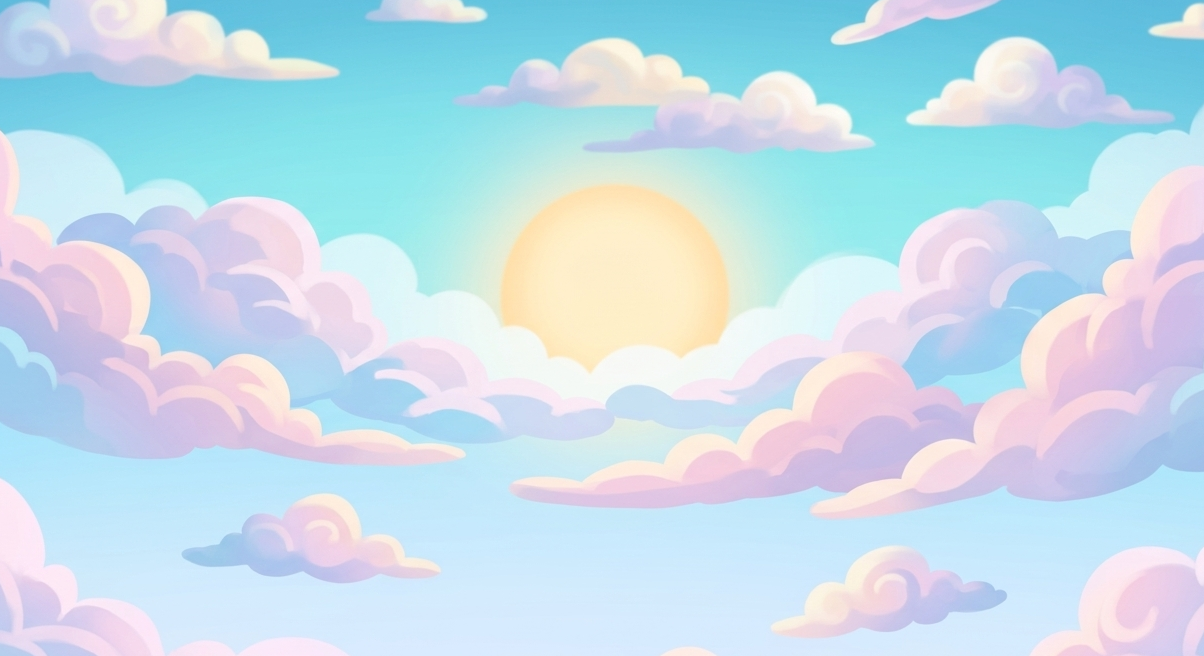
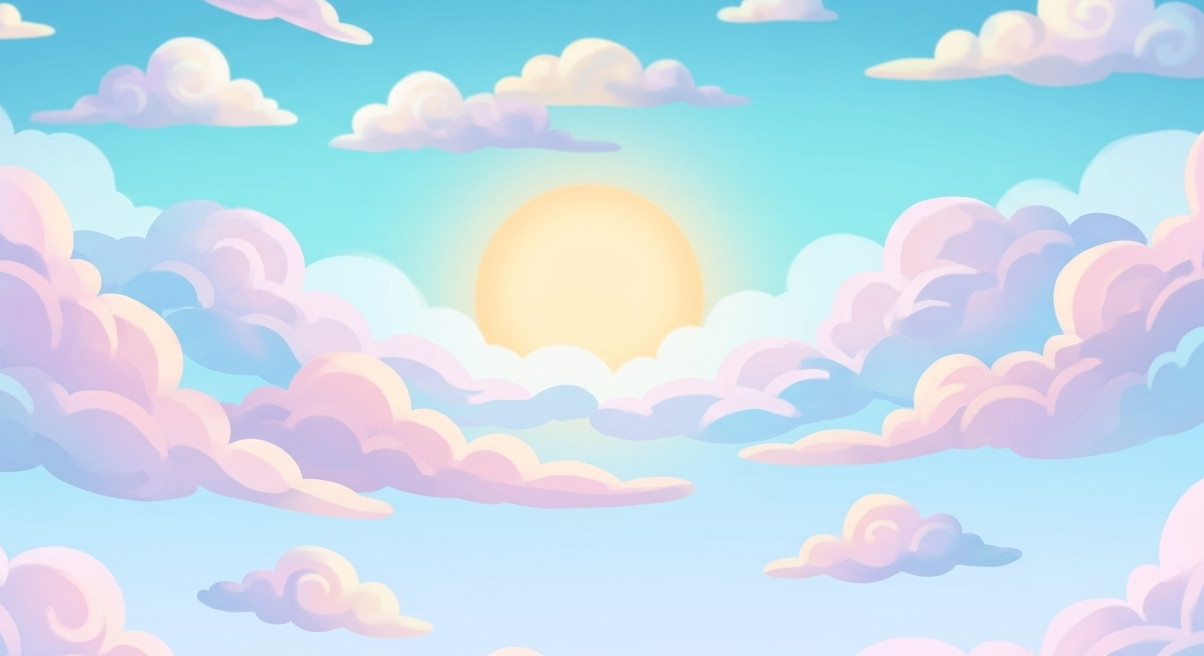
feat: add alternating backgrounds, rainbow hitboxes, layout fixes, and mobile screen tilt overlay

diff --git a/script.js b/script.js
@@ -13,38 +13,36 @@ function resizeCanvas() {
     }
 }
 window.addEventListener('resize', resizeCanvas);
-resizeCanvas();
 
 // ─── Assets ───────────────────────────────────────────────
 const assets = {
     croc: new Image(),
     cloud: new Image(),
-    bg:  new Image(),
-    bg2: new Image(),
-    bg3: new Image(),
-    bg4: new Image(),
-    bg5: new Image(),
-    bg6: new Image()
+    rainbow: new Image(),
+    bgs: [],
+    mbgs: []
 };
 
-const BG_LIST = ['bg','bg2','bg3','bg4','bg5','bg6'];
-let currentBgIdx = 0; // index ke BG_LIST
+const BG_PREFIX = ['background', 'background2', 'background3', 'background4', 'background5', 'background6'];
+const MIRROR_PREFIX = ['mirrorbackground', 'mirrorbackground2', 'mirrorbackground3', 'mirrorbackground4', 'mirrorbackground5', 'mirrorbackground6'];
+
+for(let i=0; i<6; i++) {
+    assets.bgs.push(new Image());
+    assets.mbgs.push(new Image());
+}
+
+let currentBgIdx = 0; // index ke BG array
 
 assets.croc.src  = 'img/buaya.png';
 assets.cloud.src = 'img/awan.png';
-assets.bg.src    = 'img/background.png';
-assets.bg2.src   = 'img/background2.png';
-assets.bg3.src   = 'img/background3.png';
-assets.bg4.src   = 'img/background4.png';
-assets.bg5.src   = 'img/background5.png';
-assets.bg6.src   = 'img/background6.png';
+assets.rainbow.src = 'img/pelangi.png';
 
 let assetsLoaded = 0;
-const totalAssets = 8;
+const totalAssets = 3 + 12; // croc, cloud, rainbow + 6 bgs + 6 mbgs
 
 const checkLoad = () => {
     assetsLoaded++;
-    if (assetsLoaded === totalAssets && gameState === 'LOADING') {
+    if (assetsLoaded >= totalAssets && gameState === 'LOADING') {
         gameState = 'START';
     }
 };
@@ -52,12 +50,16 @@ const handleLoadError = () => { console.error("Asset load failed"); checkLoad();
 
 assets.croc.onload  = checkLoad; assets.croc.onerror  = handleLoadError;
 assets.cloud.onload = checkLoad; assets.cloud.onerror = handleLoadError;
-assets.bg.onload    = checkLoad; assets.bg.onerror    = handleLoadError;
-assets.bg2.onload   = checkLoad; assets.bg2.onerror   = handleLoadError;
-assets.bg3.onload   = checkLoad; assets.bg3.onerror   = handleLoadError;
-assets.bg4.onload   = checkLoad; assets.bg4.onerror   = handleLoadError;
-assets.bg5.onload   = checkLoad; assets.bg5.onerror   = handleLoadError;
-assets.bg6.onload   = checkLoad; assets.bg6.onerror   = handleLoadError;
+assets.rainbow.onload = checkLoad; assets.rainbow.onerror = handleLoadError;
+
+for(let i=0; i<6; i++) {
+    assets.bgs[i].onload = checkLoad; assets.bgs[i].onerror = handleLoadError;
+    assets.bgs[i].src = `img/${BG_PREFIX[i]}.png`;
+    
+    assets.mbgs[i].onload = checkLoad; assets.mbgs[i].onerror = handleLoadError;
+    assets.mbgs[i].src = `img/${MIRROR_PREFIX[i]}.png`;
+}
+
 
 // ─── Music & Mute ─────────────────────────────────────────
 const bgMusic = new Audio('music/backsound.mp3');
@@ -157,11 +159,28 @@ function spawnObstacle() {
     let cloudWidth  = (120 + Math.random() * 60) * Math.max(scale, 0.6);
     let cloudHeight = cloudWidth * 0.6;
     let yPos        = Math.random() * (canvas.height - cloudHeight);
-    obstacles.push({ x: canvas.width, y: yPos, width: cloudWidth, height: cloudHeight });
+    let hasRainbow  = Math.random() < 0.2; // 20% chance
+    obstacles.push({ x: canvas.width, y: yPos, width: cloudWidth, height: cloudHeight, hasRainbow: hasRainbow });
 }
 
 function drawObstacles() {
     for (let obs of obstacles) {
+        // Draw rainbow menyatu dengan awan jika ada (di bawah awan)
+        if (obs.hasRainbow && assets.rainbow.complete && assets.rainbow.naturalWidth !== 0 && assets.cloud.complete) {
+            // Ukuran pelangi disesuaikan
+            let rWidth = obs.width * 1.1; 
+            let rHeight = obs.height * 1.1;
+            let rX = obs.x - (rWidth - obs.width) / 2;
+            let rY = obs.y - (rHeight - obs.height) / 1.1; // sedikit di atas awan (awan utama di tengah)
+            ctx.drawImage(assets.rainbow, rX, rY, rWidth, rHeight);
+
+            // Awan di ujung kiri pelangi
+            ctx.drawImage(assets.cloud, rX - obs.width*0.3, rY + rHeight*0.6, obs.width*0.8, obs.height*0.8);
+            // Awan di ujung kanan pelangi
+            ctx.drawImage(assets.cloud, rX + rWidth - obs.width*0.5, rY + rHeight*0.6, obs.width*0.8, obs.height*0.8);
+        }
+
+        // Gambar awan utama di tengah (selalu ada)
         if (assets.cloud.complete && assets.cloud.naturalWidth !== 0) {
             ctx.drawImage(assets.cloud, obs.x, obs.y, obs.width, obs.height);
         } else {
@@ -184,14 +203,55 @@ function updateObstacles() {
         let obs = obstacles[i];
         obs.x  -= SCROLL_SPEED;
 
-        // Hitbox padding (lebih longgar)
-        const px = 38, py = 38;
-        if (
+        // Hitbox padding awan (lebih longgar tapi harus proporsional untuk responsif HP)
+        const px = croc.width * 0.22;
+        const py = croc.height * 0.28;
+        
+        // Cek tabrakan awan utama
+        let hitCloud = (
             croc.x + px         < obs.x + obs.width  - px &&
             croc.x + croc.width - px > obs.x + px          &&
             croc.y + py         < obs.y + obs.height - py  &&
             croc.y + croc.height - py > obs.y + py
-        ) {
+        );
+
+        let hitRainbow = false;
+        if (obs.hasRainbow) {
+            // Hitbox pelangi
+            let rWidth = obs.width * 1.1; 
+            let rHeight = obs.height * 1.1;
+            let rX = obs.x - (rWidth - obs.width) / 2;
+            let rY = obs.y - (rHeight - obs.height) / 1.1;
+
+            hitRainbow = (
+                croc.x + px         < rX + rWidth  - px &&
+                croc.x + croc.width - px > rX + px          &&
+                croc.y + py         < rY + rHeight - py  &&
+                croc.y + croc.height - py > rY + py
+            );
+
+            // Hitbox 2 awan kecil di ujung
+            let lhX = rX - obs.width*0.3; let lhY = rY + rHeight*0.6; let lhW = obs.width*0.8; let lhH = obs.height*0.8;
+            let rhX = rX + rWidth - obs.width*0.5; let rhY = rY + rHeight*0.6; let rhW = obs.width*0.8; let rhH = obs.height*0.8;
+
+            let hitLeftCloud = (
+                croc.x + px         < lhX + lhW  - px &&
+                croc.x + croc.width - px > lhX + px          &&
+                croc.y + py         < lhY + lhH - py  &&
+                croc.y + croc.height - py > lhY + py
+            );
+
+            let hitRightCloud = (
+                croc.x + px         < rhX + rhW  - px &&
+                croc.x + croc.width - px > rhX + px          &&
+                croc.y + py         < rhY + rhH - py  &&
+                croc.y + croc.height - py > rhY + py
+            );
+
+            if (hitLeftCloud || hitRightCloud) hitRainbow = true;
+        }
+
+        if (hitCloud || hitRainbow) {
             triggerGameOver();
         }
 
@@ -205,8 +265,8 @@ function updateScore() {
         score++;
         document.getElementById('score-val').innerText = score;
 
-        // Ganti background setiap 1000 poin, looping
-        let newIdx = Math.floor(score / 1000) % BG_LIST.length;
+        // Ganti background setiap 500 poin, looping
+        let newIdx = Math.floor(score / 500) % 6;
         if (newIdx !== currentBgIdx) {
             currentBgIdx = newIdx;
             bgOffset = 0; // reset scroll saat ganti bg
@@ -216,15 +276,30 @@ function updateScore() {
 
 // ─── Background ────────────────────────────────────────────
 let bgOffset = 0;
+let bgDrawWidth = 0;
+
 function drawBackground() {
-    let activeBg = assets[BG_LIST[currentBgIdx]];
-    if (activeBg && activeBg.complete && activeBg.naturalWidth !== 0) {
+    let activeBg = assets.bgs[currentBgIdx];
+    let activeMirrorBg = assets.mbgs[currentBgIdx];
+
+    if (activeBg && activeBg.complete && activeBg.naturalWidth !== 0 && activeMirrorBg && activeMirrorBg.complete) {
+        // Hitung skala agar background tidak gepeng (cover mirip css object-fit)
+        const scale = Math.max(canvas.width / activeBg.naturalWidth, canvas.height / activeBg.naturalHeight);
+        bgDrawWidth = activeBg.naturalWidth * scale;
+        const bgDrawHeight = activeBg.naturalHeight * scale;
+
         if (gameState === 'PLAYING') {
             bgOffset -= SCROLL_SPEED * 0.5;
-            if (bgOffset <= -canvas.width) bgOffset = 0;
+            if (bgOffset <= -bgDrawWidth * 2) {
+                bgOffset += bgDrawWidth * 2;
+            }
         }
-        ctx.drawImage(activeBg, bgOffset, 0, canvas.width, canvas.height);
-        ctx.drawImage(activeBg, bgOffset + canvas.width, 0, canvas.width, canvas.height);
+        
+        // Gambar 4 tile agar menutupi seluruh layar secara bergantian (bg -> mirror -> bg -> mirror)
+        ctx.drawImage(activeBg, bgOffset, 0, bgDrawWidth, bgDrawHeight);
+        ctx.drawImage(activeMirrorBg, bgOffset + bgDrawWidth, 0, bgDrawWidth, bgDrawHeight);
+        ctx.drawImage(activeBg, bgOffset + bgDrawWidth * 2, 0, bgDrawWidth, bgDrawHeight);
+        ctx.drawImage(activeMirrorBg, bgOffset + bgDrawWidth * 3, 0, bgDrawWidth, bgDrawHeight);
     } else {
         ctx.clearRect(0, 0, canvas.width, canvas.height);
     }
@@ -340,5 +415,23 @@ function gameLoop() {
     requestAnimationFrame(gameLoop);
 }
 
-croc.reset();
-gameLoop();
+// ─── Initialization ──────────────────────────────────────────
+// Setup awal saat game baru di-load
+function initGame() {
+    resizeCanvas();
+    croc.reset();
+    gameLoop();
+}
+
+window.onload = initGame;
+
+// ─── Visibility API (Pause music saat web di background) ────
+document.addEventListener("visibilitychange", () => {
+    if (document.hidden) {
+        bgMusic.pause();
+    } else {
+        if (gameState === 'PLAYING' && !isMuted) {
+            bgMusic.play().catch(() => {});
+        }
+    }
+});

diff --git a/style.css b/style.css
@@ -248,3 +248,43 @@ canvas {
         font-size: 10px;
     }
 }
+
+/* ─── Rotate Overlay ─── */
+#rotate-overlay {
+    display: none;
+    position: absolute;
+    top: 0; left: 0; width: 100%; height: 100%;
+    background-color: #000;
+    z-index: 1000;
+    color: white;
+    flex-direction: column;
+    justify-content: center;
+    align-items: center;
+    text-align: center;
+    pointer-events: auto;
+}
+
+#rotate-overlay .phone-icon {
+    font-size: 50px;
+    margin-bottom: 20px;
+    animation: rotatePhone 2s infinite ease-in-out;
+}
+
+#rotate-overlay p {
+    font-size: 14px;
+    line-height: 1.5;
+    padding: 0 20px;
+    font-family: sans-serif;
+}
+
+@keyframes rotatePhone {
+    0% { transform: rotate(0deg); }
+    50% { transform: rotate(90deg); }
+    100% { transform: rotate(0deg); }
+}
+
+@media (orientation: portrait) and (max-width: 900px) {
+    #rotate-overlay {
+        display: flex;
+    }
+}

diff --git a/index.html b/index.html
@@ -38,6 +38,12 @@
                 <p id="game-over-message">Score: <span id="final-score">0</span></p>
                 <p>Press SPACE or Click to Restart</p>
             </div>
+
+            <!-- Rotate Overlay untuk HP -->
+            <div id="rotate-overlay">
+                <div class="phone-icon">📱</div>
+                <p>Putar perangkat (Landscape) untuk bermain</p>
+            </div>
         </div>
     </div>
     <script src="script.js"></script>
